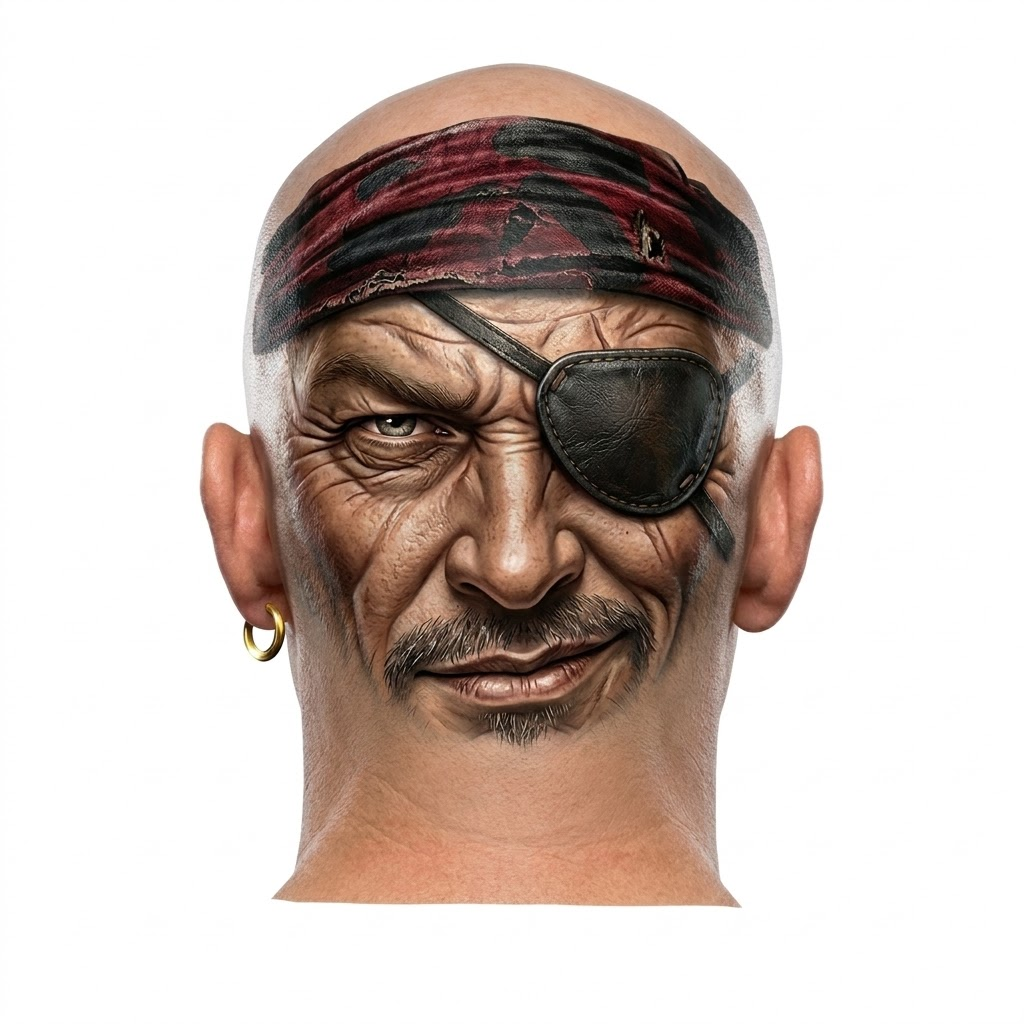
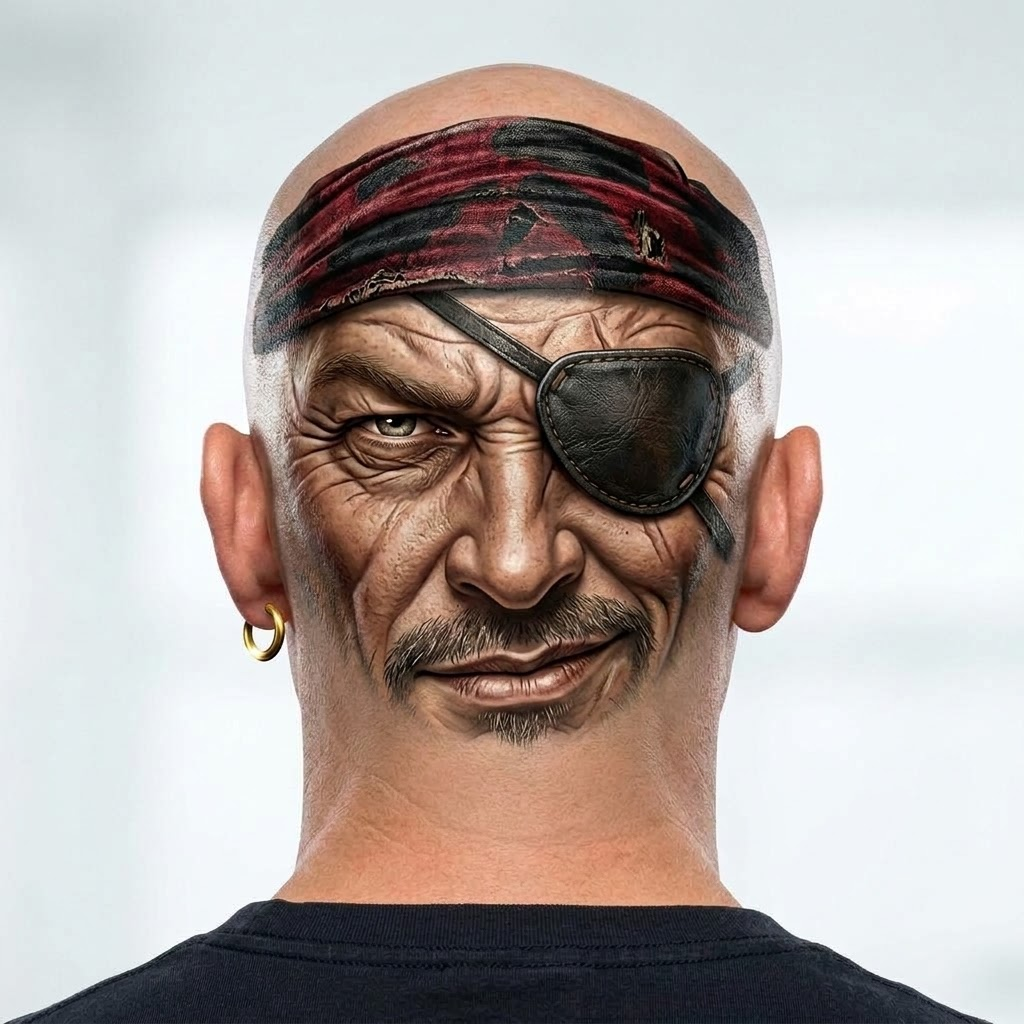
Swap hero morph to pirate cap → head assets
Replace dome/scalp PNGs with matching pirate_cap and pirate_head
frames and reset per-frame zoom/offset so both sit naturally aligned
while keeping the slower morph timing.

diff --git a/public/styles.css b/public/styles.css
@@ -392,28 +392,10 @@ button {
   object-position: center;
 }
 
-/* Per-frame align: zoom scalp face to dome oval during crossfade */
-.hero__frame[data-hero-frame="dome"] {
-  --frame-scale: 1.02;
-  --frame-x: 0%;
-  --frame-y: 1%;
-  object-fit: contain;
-  object-position: 50% 48%;
-}
-
-.hero__frame[data-hero-frame="scalp"] {
-  --frame-scale: 1.62;
-  --frame-x: 0.5%;
-  --frame-y: 10%;
-  object-fit: cover;
-  object-position: 50% 36%;
-}
-
 .hero__frame {
   z-index: 1;
   opacity: 0;
-  transform: translate(var(--frame-x, 0%), var(--frame-y, 0%))
-    scale(calc(1.03 * var(--frame-scale, 1)));
+  transform: scale(1.03);
   filter: blur(5px) saturate(1.02);
   transition:
     opacity 1.7s var(--ease-morph),
@@ -426,16 +408,14 @@ button {
 .hero__frame.is-active {
   z-index: 2;
   opacity: 1;
-  transform: translate(var(--frame-x, 0%), var(--frame-y, 0%))
-    scale(var(--frame-scale, 1));
+  transform: scale(1);
   filter: blur(0) saturate(1);
 }
 
 .hero__frame.is-exiting {
   z-index: 3;
   opacity: 0;
-  transform: translate(var(--frame-x, 0%), var(--frame-y, 0%))
-    scale(calc(0.985 * var(--frame-scale, 1)));
+  transform: scale(0.985);
   filter: blur(6px) saturate(0.96);
 }
 

diff --git a/public/index.html b/public/index.html
@@ -79,7 +79,7 @@
                 src="assets/hero-ship-dome.png"
                 width="1024"
                 height="1024"
-                alt="Traditional ship design sealed inside a glass dome"
+                alt="Pirate design on a bald head wearing a cap"
                 data-hero-frame="dome"
                 decoding="async"
               />
@@ -88,7 +88,7 @@
                 src="assets/hero-ship-scalp.png"
                 width="1024"
                 height="1024"
-                alt="Ship tattoo design worn on a bald head"
+                alt="Pirate design worn on a bald head"
                 data-hero-frame="scalp"
                 aria-hidden="true"
                 decoding="async"
